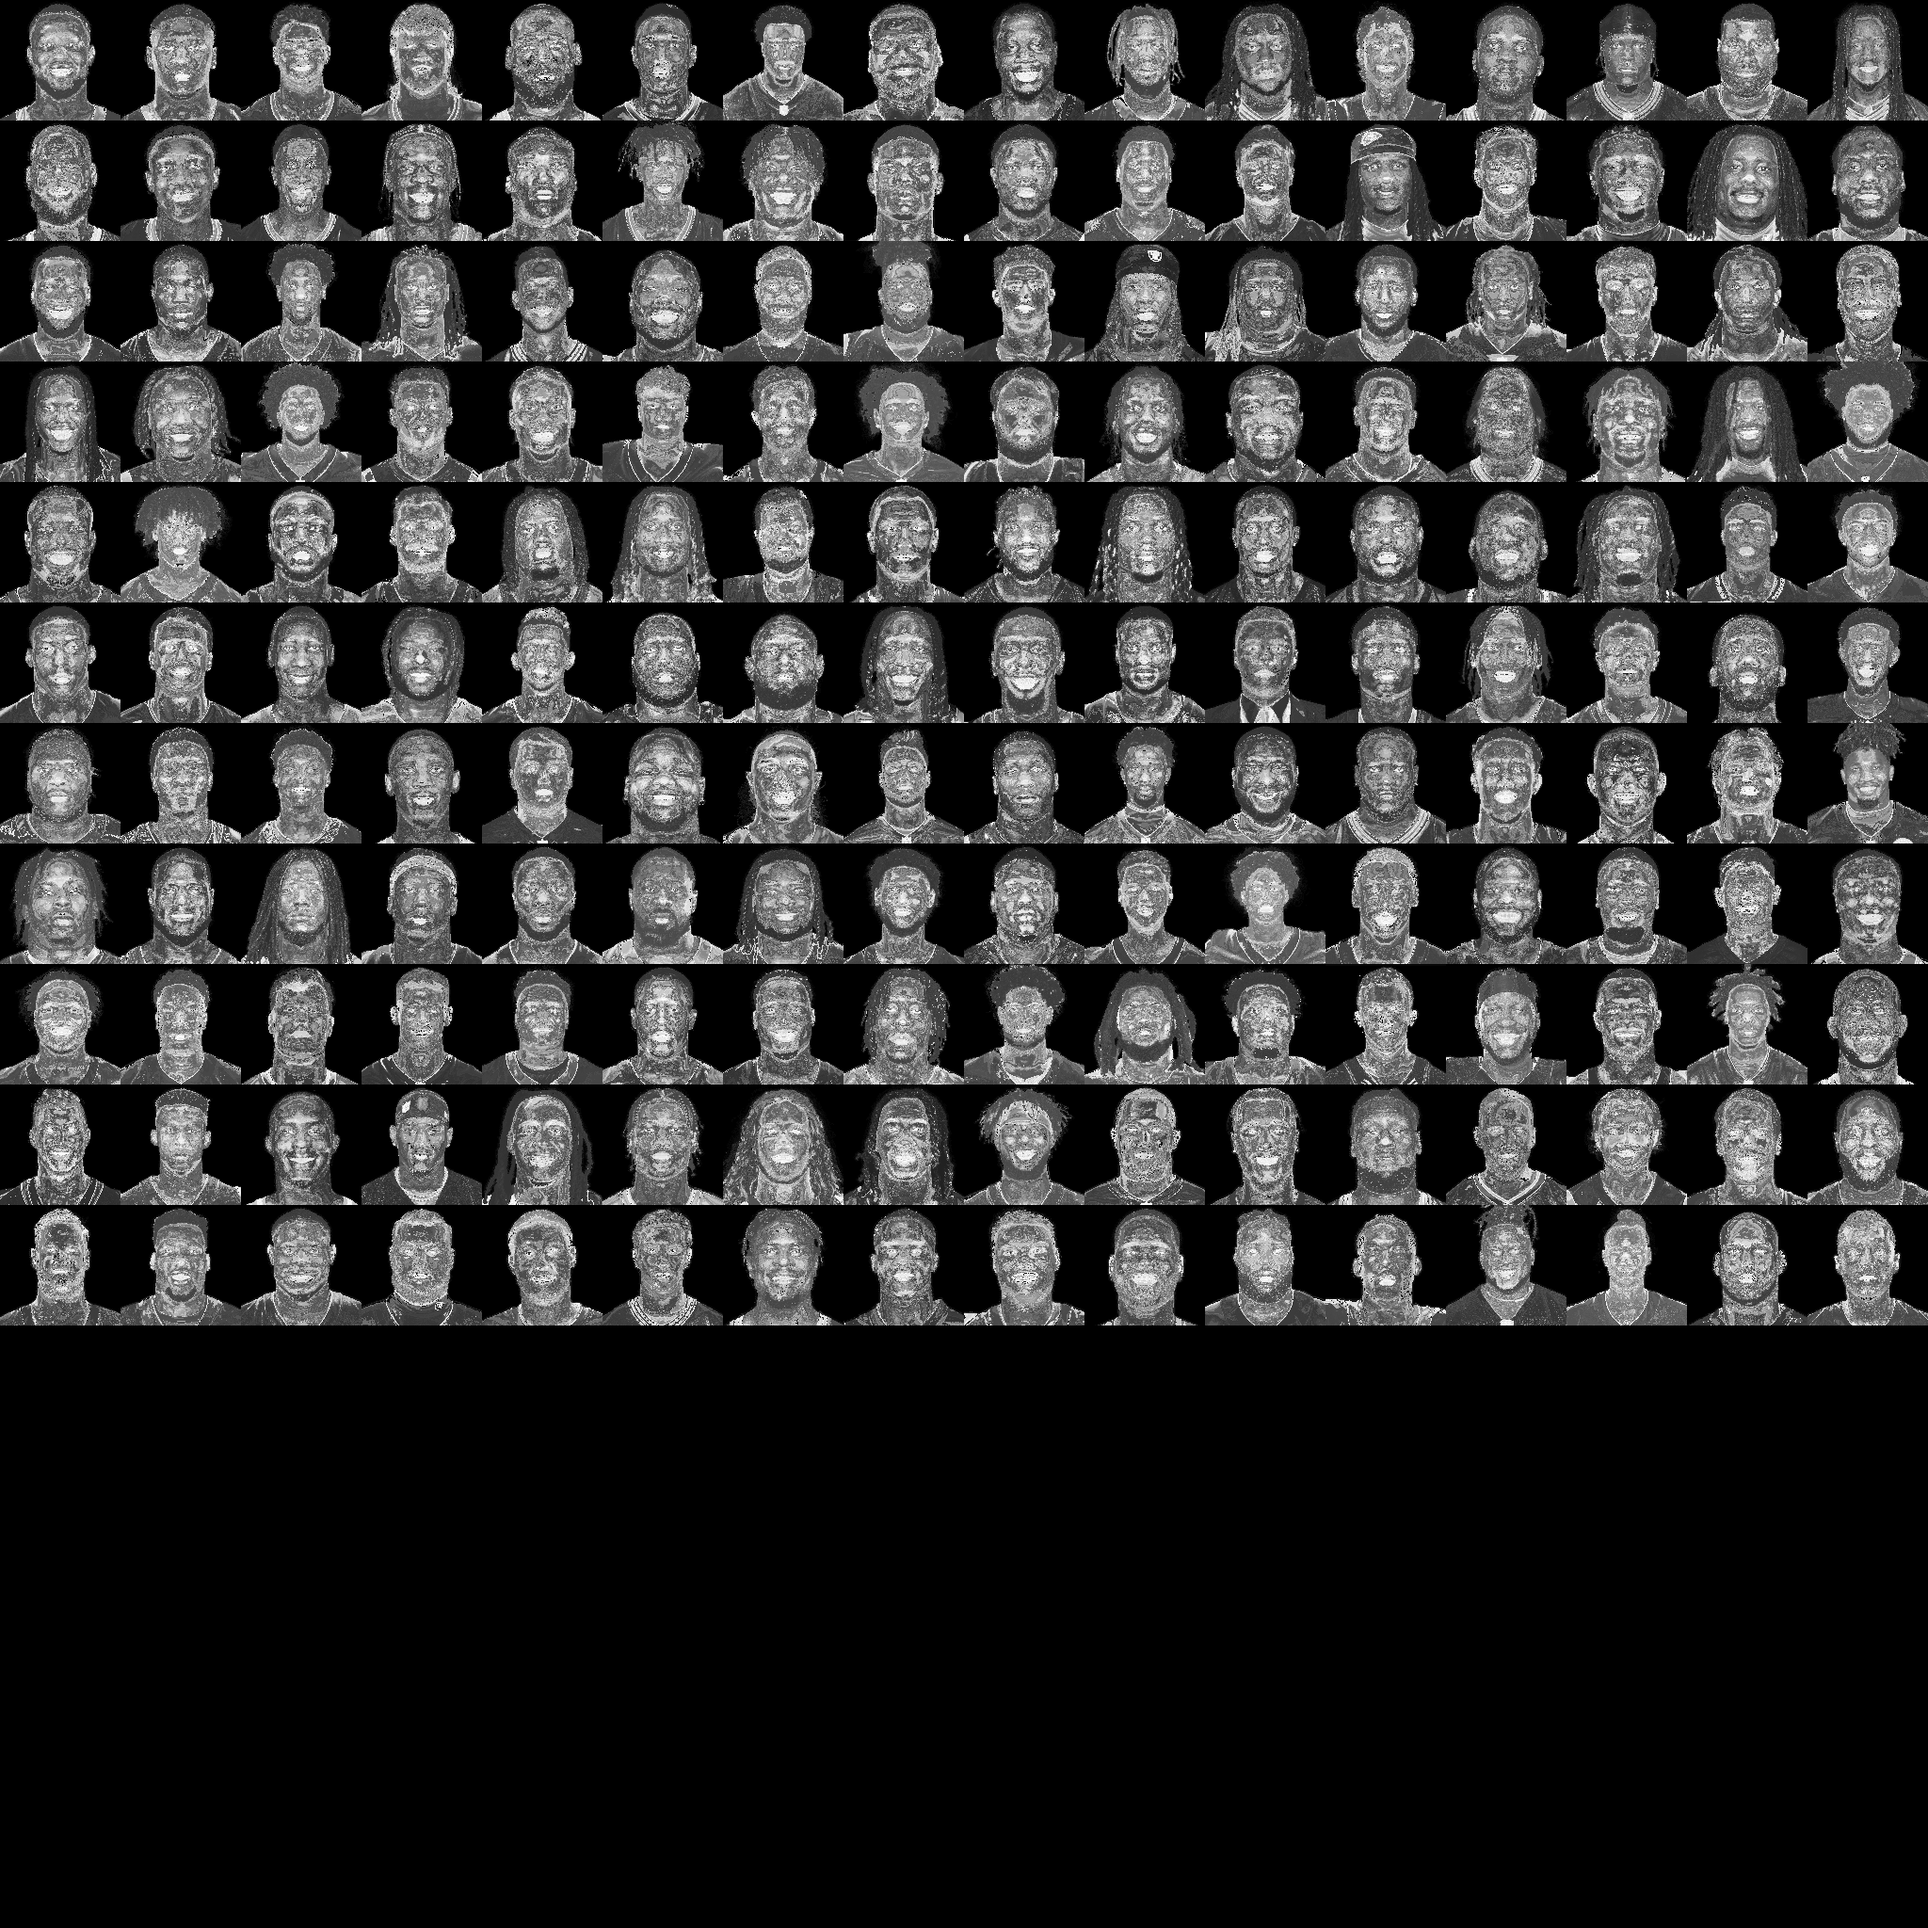
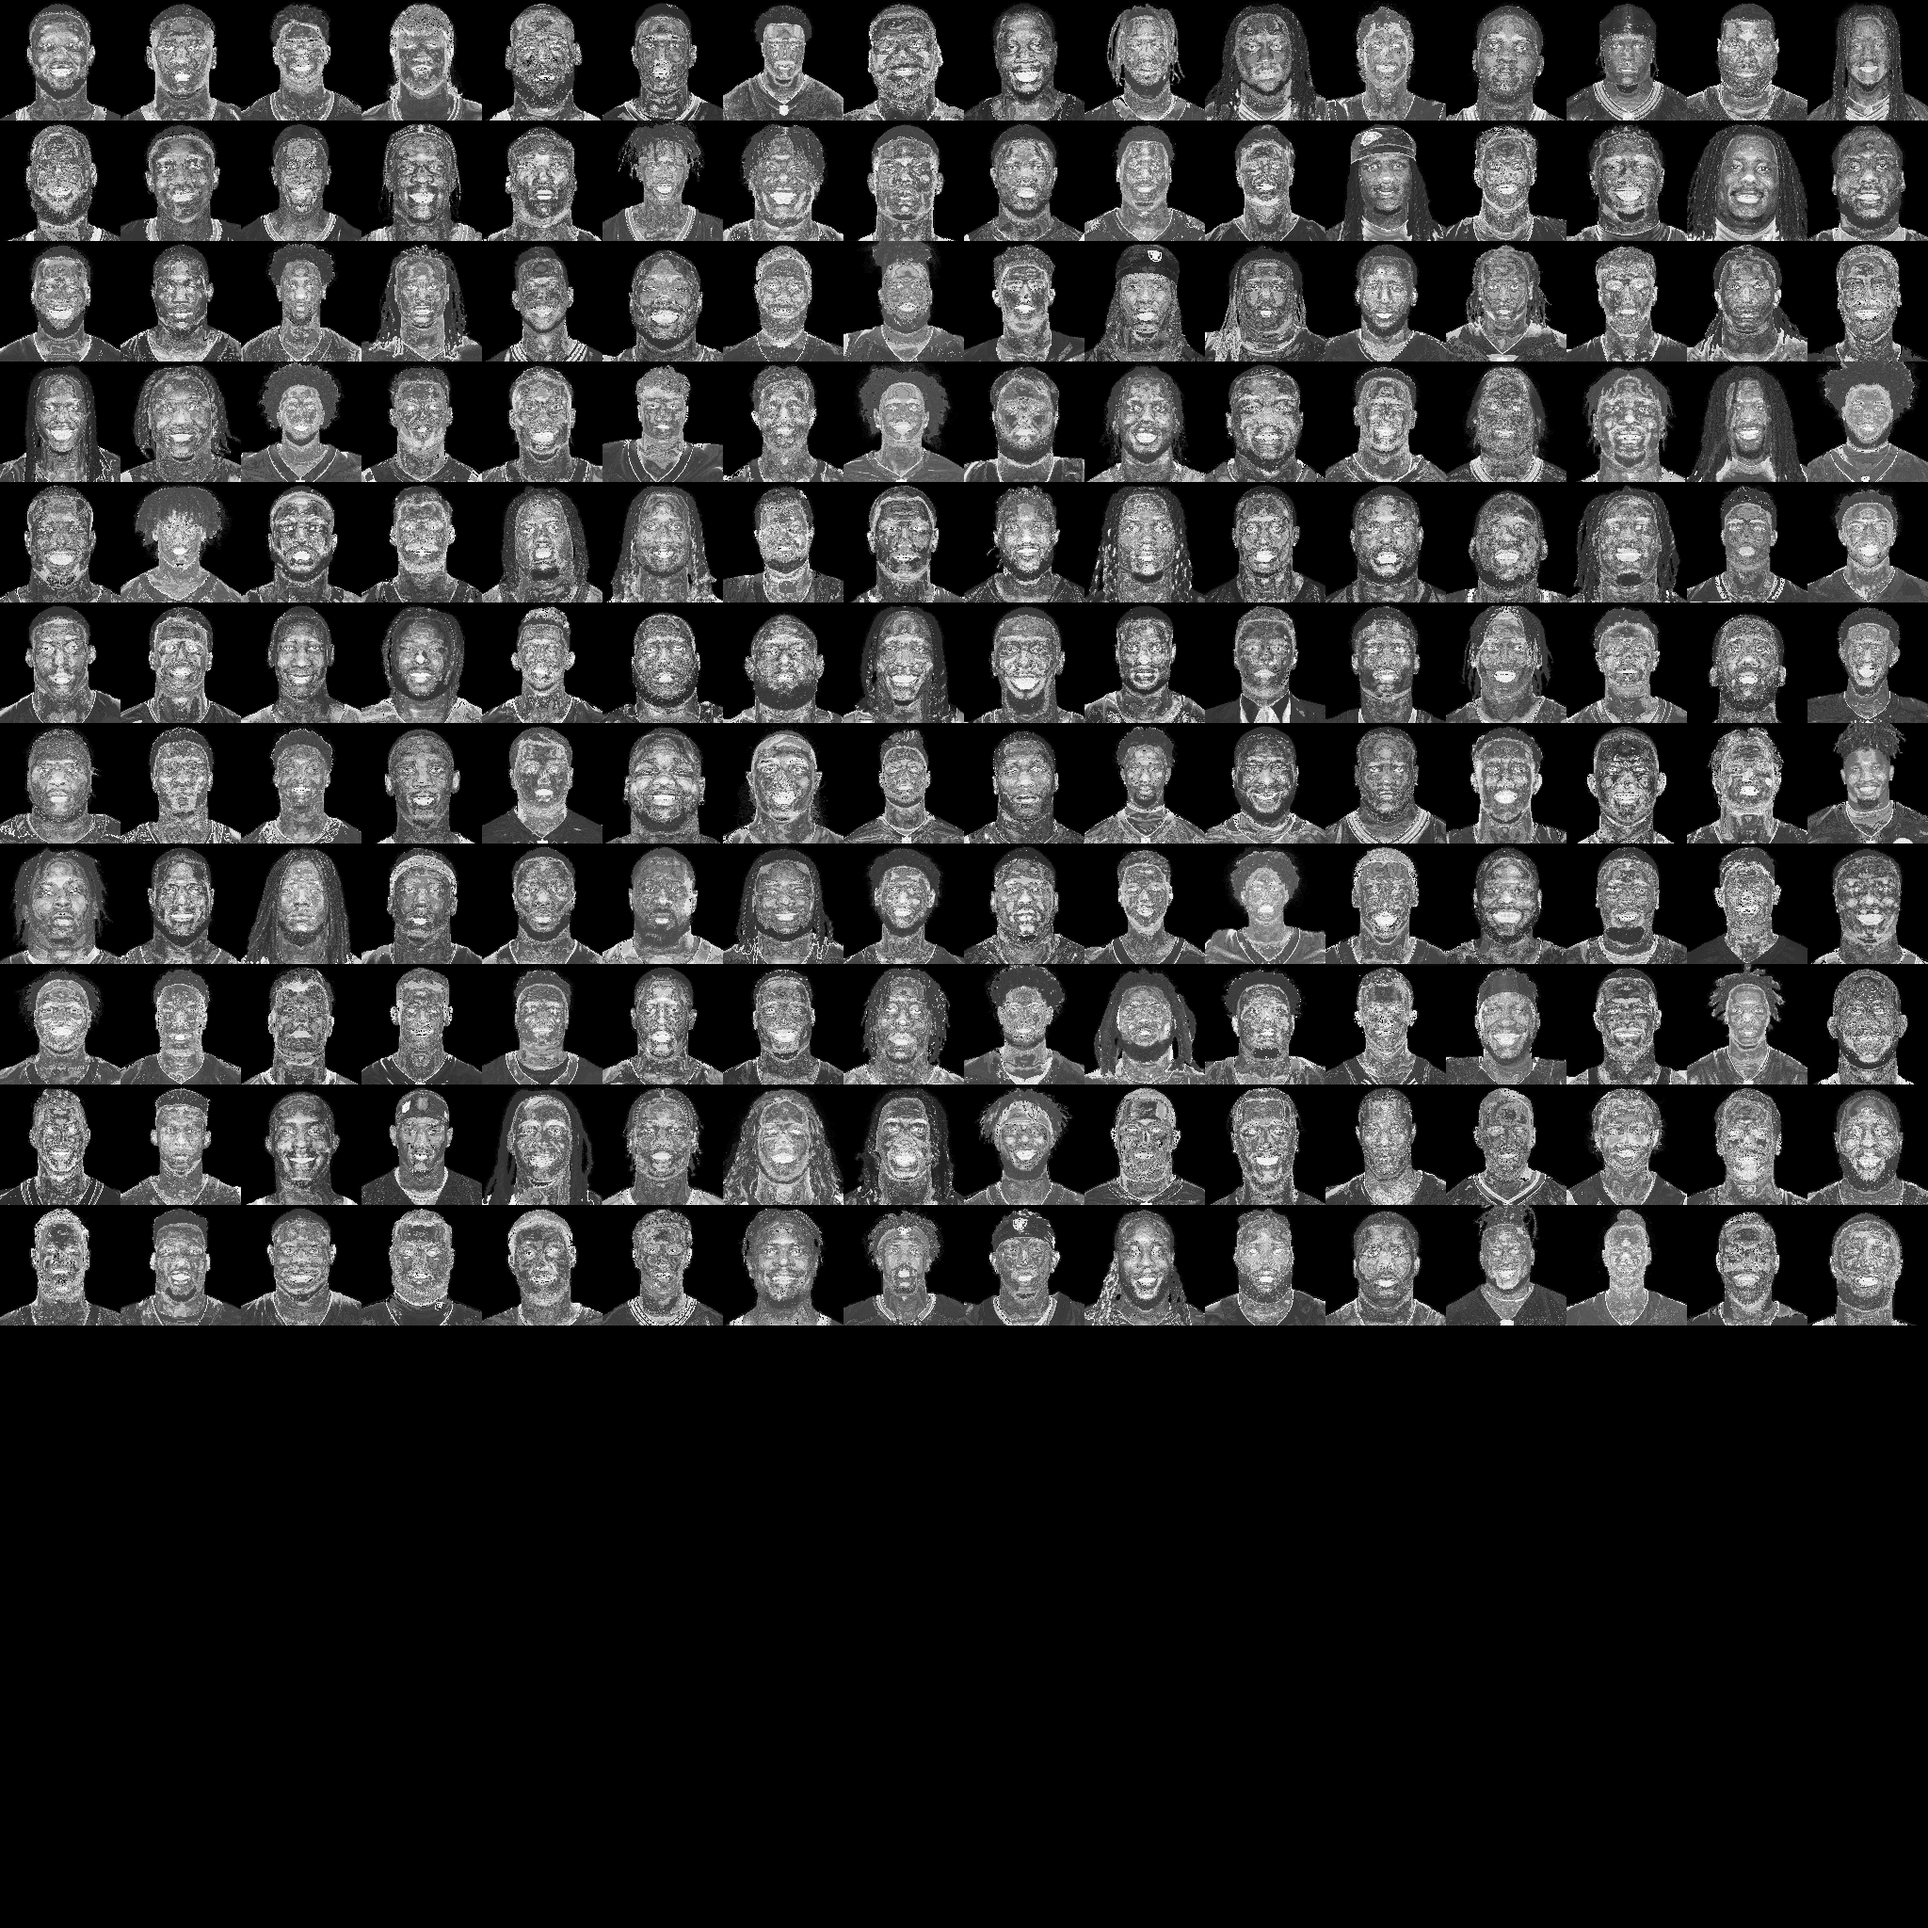
Roster review round 2: hand-checked long tail, neutral notes, edition-true ratings step
The second review of job/b81-roster-1125 and the coordinator's follow-ups. The roster files live in the release sources
(v10-sources-128 b5998c41, -64 285b80bb, pinned here); this commit carries the repo side and the checks:

- Long tail: every man holding a real portrait, and each next man before he took a freed id, hand-checked against
  public retirement news (dated sources in the lane's review). Seven dropped: Lawrence Guy, Troy Hill, Denico Autry,
  Shane Lemieux, Raekwon McMillan, Austin Seibert, and William Gholston (a high-school coach since 2025). 208 ship. The
  21 who stayed keep their portrait ids; the seven freed ids go to the next eligible men. Catalog digest 1911b34c.
- The 10/22 free-agent depth row for Colin Kaepernick keeps its meaning without naming the owner (data file and the
  shipped row).
- The ratings-2026 layer is applied with the ratings lane's fixed script (neutral request text). The 64 MB fit had
  carried the 128 MB change list; that edition's step is rebuilt by gsis id (Omar Cooper and Ja'Kobi Lane are absent
  there, Jordan Mason is index 2572).
- Durability rates rows the refresh writes in full from their own fields (Milo Eifler, missed by the old lookup, is
  now 57); 318 lowered.
- Tests: the release-sources test pins the wired files and checks both editions' ratings step and that no text in
  either shipped document names the owner; the portraits test checks the retirees hold no portrait and two refilled
  ids; long tail 208.
[…]

Changed region(s): [[0.4375, 0.625, 0.625, 0.6875], [0.875, 0.625, 1.0, 0.6875], [0.6875, 0.5625, 0.75, 0.6875]]

diff --git a/tests/mod_editor/test_b81_roster_consistency.py b/tests/mod_editor/test_b81_roster_consistency.py
@@ -79,15 +79,15 @@ STANDARD_SOURCES = Path(os.environ.get("NFL2K5_B81_STANDARD_SOURCES", "") or "mi
 # b81 roster-1125 (Noah: "kirk cousins not on vikings, trade deadline roster not updated?"; the 2026 deadline was 11/10):
 # the release sources load the 11/25 refresh, 128 MB and the 64 MB retail-capacity fit of it.
 RELEASE_ROSTERS = {128: ("roster-edits-b81-refresh-20261125.json",
[2 lines of base64/hex data omitted]
                    64: ("roster-edits-b81-refresh-20261125-retail-capacity-64mb.json",
[2 lines of base64/hex data omitted]
 
 
 @unittest.skipUnless((STANDARD_SOURCES / "recipe.json").is_file(), "private release sources absent: NFL2K5_B81_STANDARD_SOURCES")
 class ReleaseSourcesRosterTests(unittest.TestCase):
     def test_both_editions_load_the_november_25_roster(self):
-        import hashlib, json
+        import hashlib, json, re
         for memory, (name, digest) in RELEASE_ROSTERS.items():
             root = STANDARD_SOURCES.parent / f"v10-sources-{memory}"
             if not (root / "recipe.json").is_file():
@@ -129,13 +129,12 @@ class ReleaseSourcesRosterTests(unittest.TestCase):
                     # coordinator ruling 11/25 (option A, tightened after review): real unsigned veterans with NFL snaps in
                     # 2023 or later who are not publicly retired; fewer than 600 qualify, so fewer ship
                     tail = [r for r in plan["players"] if (r.get("evidence") or {}).get("kind") == "long_tail_unsigned_veteran"]
-                    self.assertEqual(len(tail), 215)
+                    self.assertEqual(len(tail), 208)
                     self.assertTrue(all(r["status"] == "UFA" and r["index"] in plan["free_agents"] for r in tail))
                     self.assertTrue(all(r["evidence"]["last_nfl_snaps_season"] >= 2023 for r in tail))
-                    # review S4: the rows this refresh adds point to neutral top-level notes, with no owner's name
-                    added = [r for r in plan["players"] if (r.get("evidence") or {}).get("kind")
-                             in ("long_tail_unsigned_veteran", "owner_named_default_free_agent")]
-                    self.assertNotIn("Noah", json.dumps([r["evidence"] for r in added]))
+                    # review S4: no row's evidence names the owner (the added rows point to neutral top-level notes; the
+                    # 10/22 depth row for Colin Kaepernick was neutralized too)
+                    self.assertNotIn("Noah", json.dumps([r.get("evidence") for r in plan["players"]]))
                 # coordinator ruling 11/25: Daniel Carlson is Miami's kicker on the 53; the released Zane Gonzalez is not
                 miami = next(t for t in plan["teams"] if t["team"] == "MIA")
                 carlson = next(r for r in plan["players"] if r.get("gsis_id") == "00-0034161")
@@ -143,6 +142,36 @@ class ReleaseSourcesRosterTests(unittest.TestCase):
                 self.assertEqual(miami["specialists"]["k"], carlson["index"])
                 gonzalez = next((r for r in plan["players"] if r.get("gsis_id") == "00-0033862"), None)
                 self.assertTrue(gonzalez is None or gonzalez["index"] not in miami["active"] + miami["reserves"])
+                # coordinator 11/25: the ratings-2026 step names this edition's records and no personal name (the 64 MB fit
+                # had carried the 128 MB list: two players it does not carry and Jordan Mason under his 128 MB index)
+                document = json.loads(path.read_text(encoding="utf-8"))
+                step = document["reviewed_ratings_2026_step"]
+                self.assertNotIn("Noah", step["request"])
+                # review round 2: no text in the shipped document names the owner ("Noah" only as a player's name)
+                def strings(node):
+                    if isinstance(node, dict):
+                        for key, value in node.items():
+                            yield key
+                            yield from strings(value)
+                    elif isinstance(node, list):
+                        for value in node:
+                            yield from strings(value)
+                    elif isinstance(node, str):
+                        yield node
+                named = re.compile(r"Noah( [A-Z][\w'.-]+( (Jr\.|Sr\.|II|III|IV))?)?")
+                self.assertEqual([text for text in strings(document) if "Noah" in text and not named.fullmatch(text)], [])
+                by_gsis = {r["gsis_id"]: r["index"] for r in plan["players"] if r.get("gsis_id")}
+                for change in step["changes"]:
+                    if change["gsis_id"] in by_gsis:
+                        self.assertEqual(change["index"], by_gsis[change["gsis_id"]], change["player"])
+                absent = sorted(item.split(" (")[0] for item in step["skipped_absent"])
+                self.assertEqual(absent, [] if memory == 128 else
+                                 ["Ja'Kobi Lane run_route", "Omar Cooper break_tackle", "Omar Cooper catch"])
+                self.assertEqual(len(step["changes"]), step["changed"])
+                self.assertEqual(step["changed"], 354 - len(absent))
+                if memory == 64:
+                    self.assertFalse({c["player"] for c in step["changes"]} & {"Omar Cooper", "Ja'Kobi Lane"})
+                    self.assertEqual({c["index"] for c in step["changes"] if c["player"] == "Jordan Mason"}, {2572})
 
 
 RETAIL_XISO = Path(os.environ.get("NFL2K5_RETAIL_XISO", "") or "missing")

diff --git a/packaging/check_2k5_mod_studio_release.py b/packaging/check_2k5_mod_studio_release.py
@@ -334,7 +334,7 @@ ANNIVERSARY_FIELD_PNG_CATALOG_SHA256 = "c621d94c4f48f26ab6c44e912dd5d5ff7a36d070
 # (b778 cf1-cf4: photo-derived likeness textures, Noah 2026-10-12; see the catalog's classification). It grants no general PNG
 # exception inside those folders; tools/b77/modern_art_png_catalog.py regenerates it and prints the digest below.
 MODERN_ART_PNG_CATALOG = "packaging/nfl2k5_modern_art_pngs.json"
[2 lines of base64/hex data omitted]
 
 # sb3: Noah (2026-10-28) cleared real logos for this free fan mod, so his real Super Bowl event logos, network marks
 # and team-season logos ship as the bundled default. This is a separate exact catalog, not an authored-art exception:

diff --git a/tests/mod_editor/test_b779_pt1_real_portraits.py b/tests/mod_editor/test_b779_pt1_real_portraits.py
@@ -291,7 +291,7 @@ class RosterPlayersRst2(unittest.TestCase):
         self.assertLess(named[-1]["id"], rp.ID_LIMIT)
 
     def test_the_long_tail_free_agents_fill_the_rest_of_the_id_window(self):
-        """b81 roster-1125 (coordinator ruling 11/25, option A, tightened after review): 28 of the 215 long-tail free agents
+        """b81 roster-1125 (coordinator ruling 11/25, option A, tightened after review): 28 of the 208 long-tail free agents
         (NFL snaps in 2023 or later, not publicly retired), most recent snaps first, take the window's last ids; the
         others go the no-photo (created face) path. Announced retirees from the first selection are gone."""
         tail = self.rows[177:]
@@ -299,8 +299,14 @@ class RosterPlayersRst2(unittest.TestCase):
         self.assertTrue(self.doc["additions"][-1]["note"].startswith("Long-tail free agents"))
         names = {(r["first"], r["last"]) for r in tail}
         self.assertIn(("Reddy", "Steward"), names)            # 2026 snaps, now unsigned
-        for retired in (("J.J.", "Watt"), ("Alejandro", "Villanueva"), ("Patrick", "Peterson")):
+        # review round 2: the portrait holders were hand-checked against retirement news; the retired and retiring men
+        # (among them Lawrence Guy, Troy Hill, Denico Autry) gave their ids to the next eligible men
+        for retired in (("J.J.", "Watt"), ("Alejandro", "Villanueva"), ("Patrick", "Peterson"), ("Lawrence", "Guy"),
+                        ("Troy", "Hill"), ("Denico", "Autry"), ("Shane", "Lemieux"), ("Raekwon", "McMillan"),
+                        ("Austin", "Seibert"), ("William", "Gholston")):
             self.assertNotIn(retired, names)
+        self.assertEqual({r["id"]: (r["first"], r["last"]) for r in tail if r["last"] in ("Gipson", "Eifler")},
+                         {31179: ("Tashaun", "Gipson"), 31199: ("Milo", "Eifler")})
         self.assertEqual([r["id"] for r in tail], list(range(31172, rp.ID_LIMIT)))
         self.assertTrue(all(r["source_url"].startswith("https://static.www.nfl.com/") for r in tail))
 
